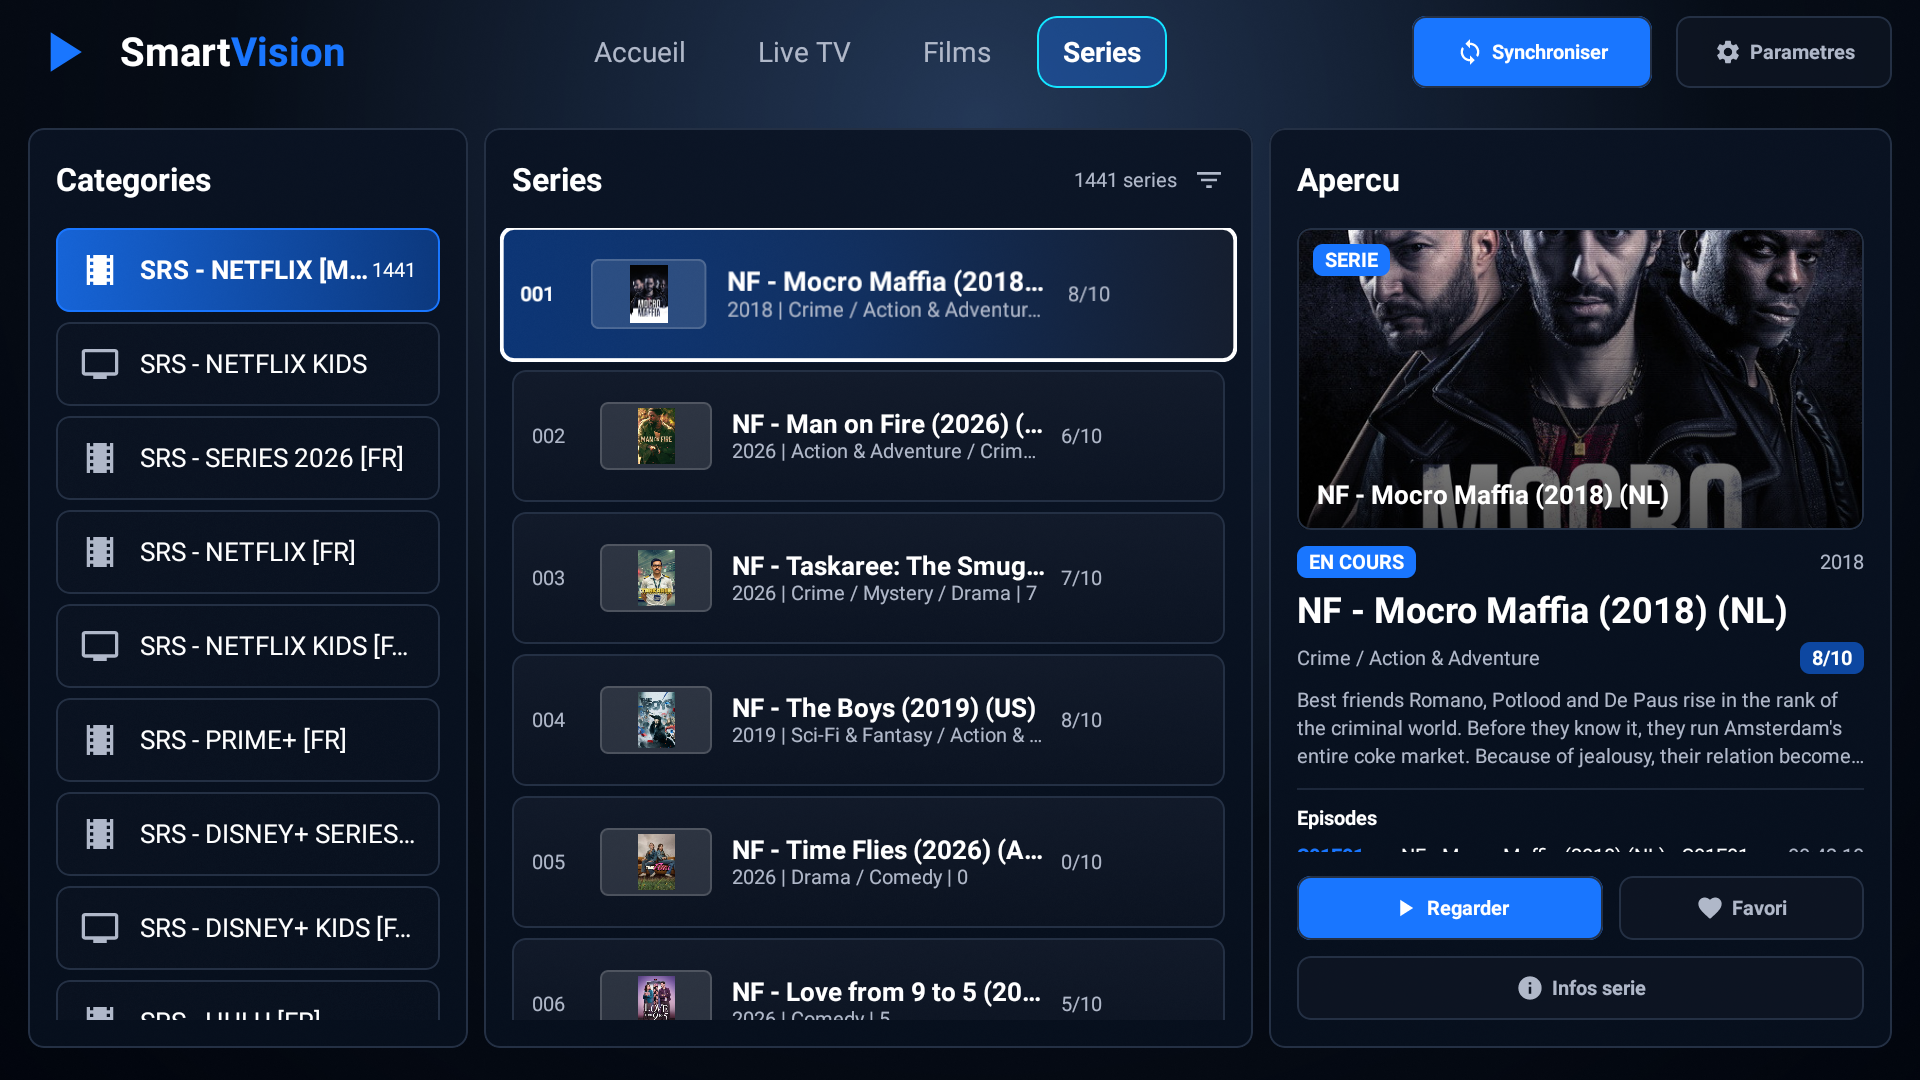
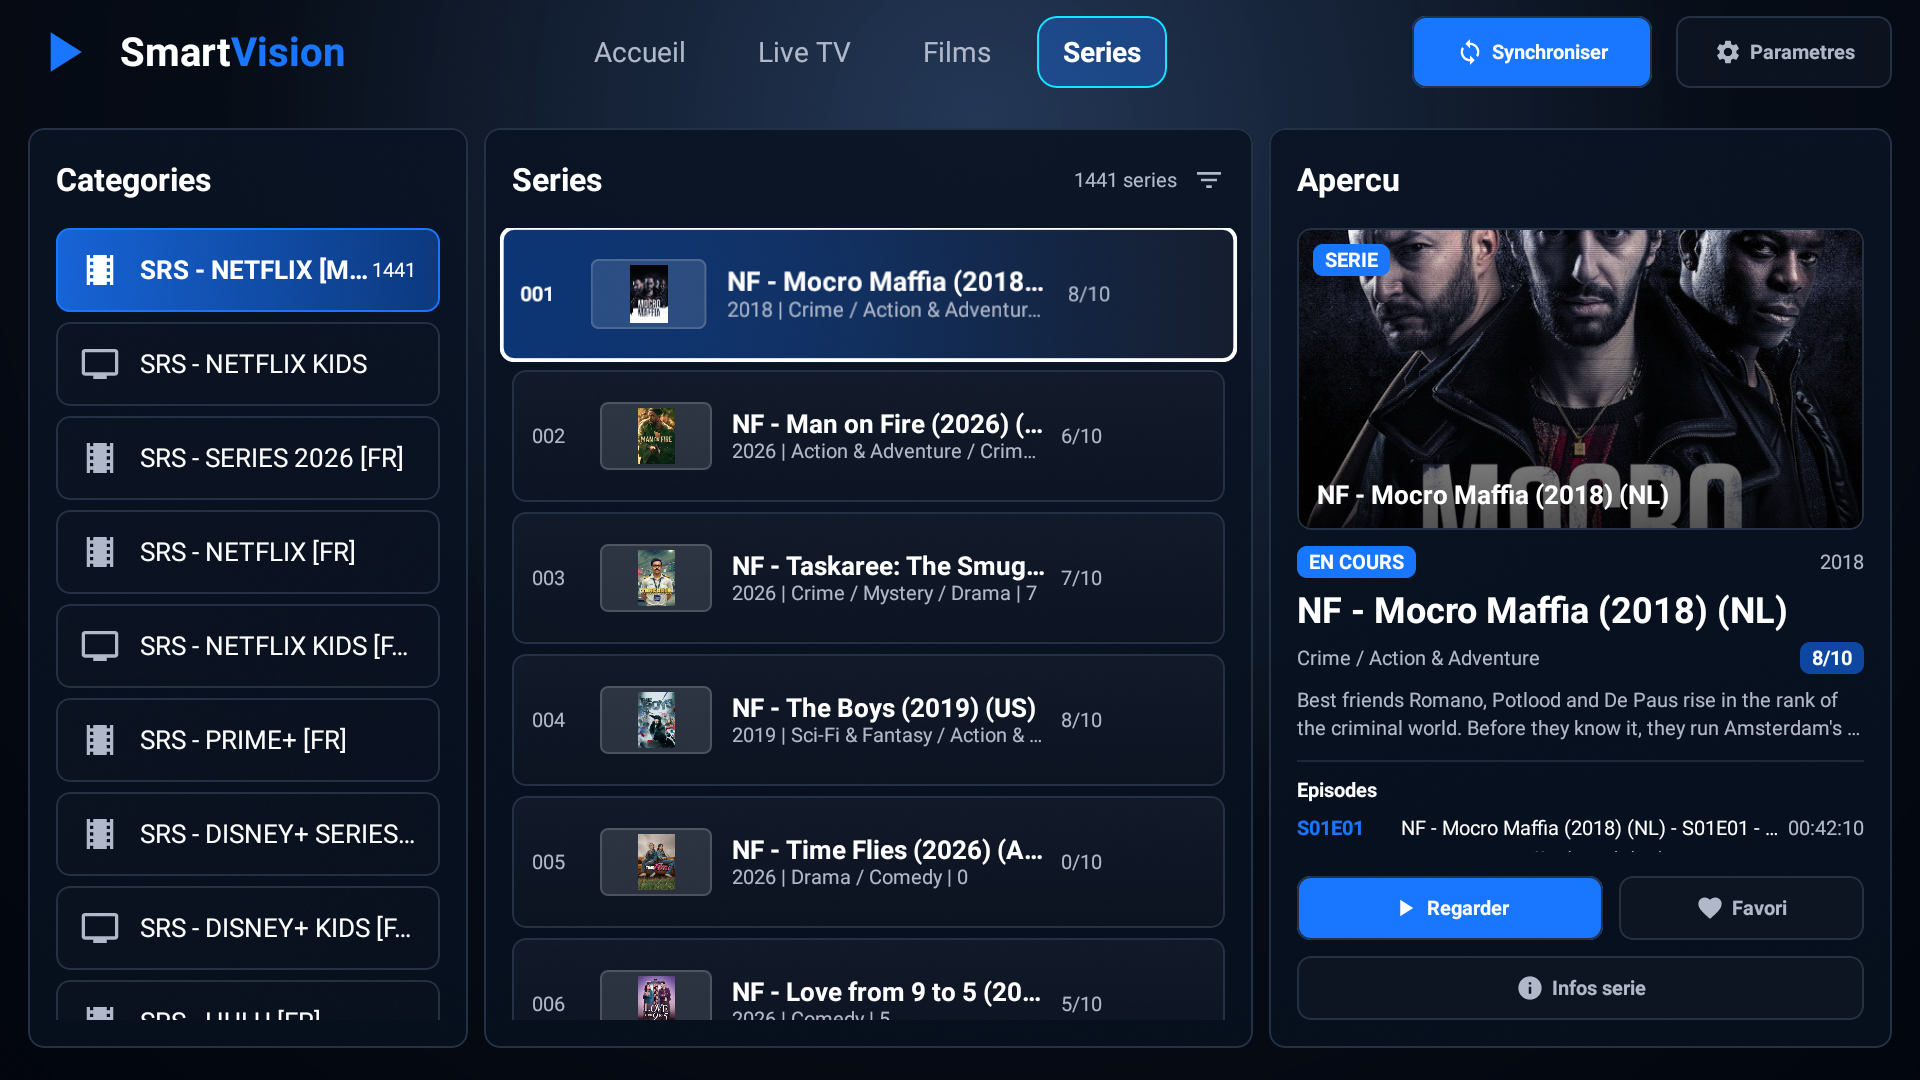
ok

Changed region(s): [[0.6562, 0.6722, 0.9688, 0.7944], [0.9375, 0.7639, 0.9688, 0.7944]]

diff --git a/SVPlayer/app/src/main/java/com/smartvision/svplayer/ui/series/SeriesScreen.kt b/SVPlayer/app/src/main/java/com/smartvision/svplayer/ui/series/SeriesScreen.kt
@@ -36,6 +36,7 @@ import androidx.compose.runtime.setValue
 import androidx.compose.runtime.withFrameNanos
 import androidx.compose.ui.Alignment
 import androidx.compose.ui.Modifier
+import androidx.compose.ui.draw.clipToBounds
 import androidx.compose.ui.focus.FocusRequester
 import androidx.compose.ui.geometry.Offset
 import androidx.compose.ui.graphics.Brush
@@ -372,7 +373,11 @@ private fun SeriesInfoCard(
     errorMessage: String?,
     modifier: Modifier = Modifier,
 ) {
-    Column(modifier = modifier.fillMaxWidth()) {
+    Column(
+        modifier = modifier
+            .fillMaxWidth()
+            .clipToBounds(),
+    ) {
         Row(verticalAlignment = Alignment.CenterVertically) {
             CatalogBadge(text = "EN COURS", color = SmartVisionColors.Primary)
             Spacer(Modifier.weight(1f))
@@ -417,7 +422,7 @@ private fun SeriesInfoCard(
             text = series.plot ?: "Episodes disponibles depuis le catalogue Xtream.",
             color = SmartVisionColors.TextSecondary,
             style = CatalogMetaStyle,
-            maxLines = 3,
+            maxLines = 2,
             overflow = TextOverflow.Ellipsis,
         )
 
@@ -463,7 +468,7 @@ private fun SeriesInfoCard(
                 maxLines = 1,
             )
 
-            else -> episodes.take(3).forEach { episode ->
+            else -> episodes.take(2).forEach { episode ->
                 Row(
                     modifier = Modifier
                         .fillMaxWidth()